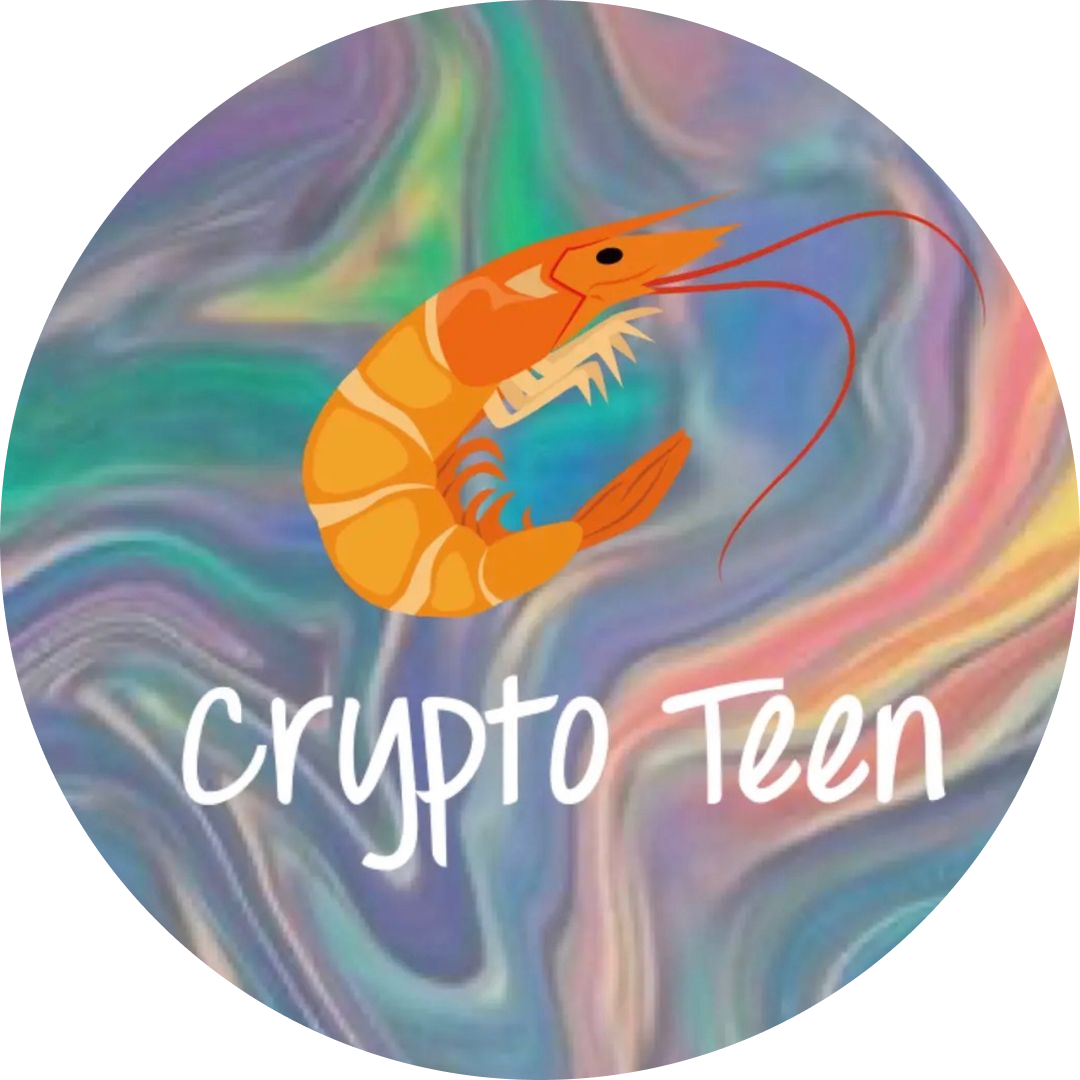
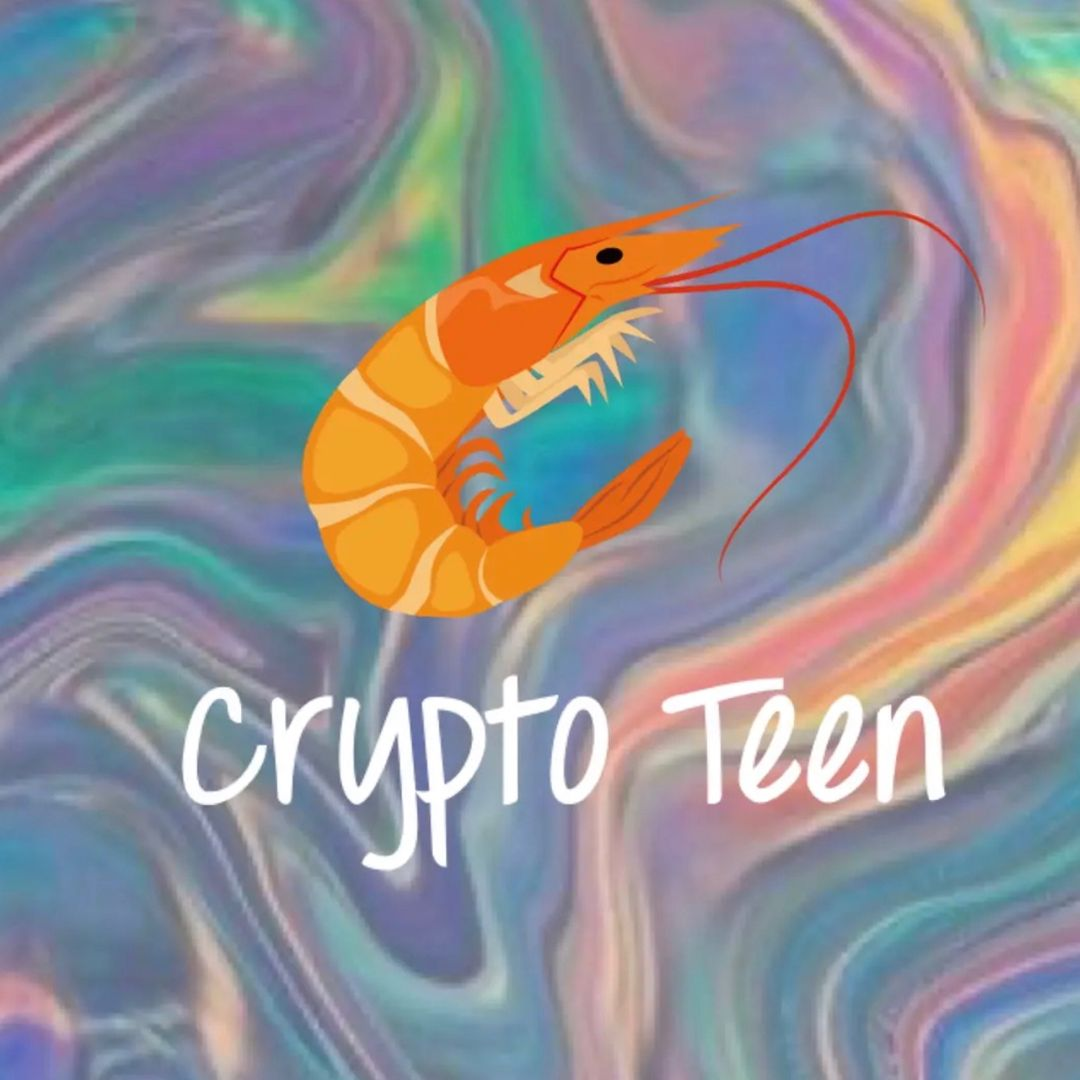
feat: sqaure off images

diff --git a/src/app/home/TimelineContent/TimelineContent.module.css b/src/app/home/TimelineContent/TimelineContent.module.css
@@ -205,10 +205,16 @@
   justify-content: flex-end;
 }
 
+/* Milestone icon - styled like project logos */
 .milestoneIcon {
-  width: 3rem;
-  height: 3rem;
-  object-fit: contain;
+  position: relative;
+  width: 48px;
+  height: 48px;
+  min-width: 48px;
+  border-radius: 10px;
+  overflow: hidden;
+  background: var(--surface-elevated);
+  object-fit: cover;
 }
 
 .yearTitle {
@@ -230,7 +236,6 @@
   font-size: 1.125rem;
   line-height: 1.75;
   margin-bottom: 1rem;
-  /* REMOVED: max-height and overflow to show all text */
 }
 
 .photos {
@@ -248,13 +253,13 @@
   justify-content: flex-end;
 }
 
+/* Photo box - styled like project images */
 .photoBox {
   position: relative;
   width: 128px;
   height: 128px;
-  border-radius: 0.5rem;
+  border-radius: 8px;
   background: var(--surface);
-  border: 2px solid var(--border-subtle);
   display: flex;
   align-items: center;
   justify-content: center;
@@ -351,6 +356,12 @@
   .photoBox {
     width: 100px;
     height: 100px;
+  }
+
+  .milestoneIcon {
+    width: 44px;
+    height: 44px;
+    min-width: 44px;
   }
 }
 
@@ -462,8 +473,10 @@
   }
 
   .milestoneIcon {
-    width: 2rem;
-    height: 2rem;
+    width: 40px;
+    height: 40px;
+    min-width: 40px;
+    border-radius: 8px;
   }
 
   .photos {
@@ -533,13 +546,15 @@
   }
 
   .milestoneIcon {
-    width: 1.75rem;
-    height: 1.75rem;
+    width: 36px;
+    height: 36px;
+    min-width: 36px;
   }
 
   .photoBox {
     width: 80px;
     height: 80px;
+    border-radius: 6px;
   }
 
   .linkIndicator {
@@ -557,5 +572,20 @@
 
   .photos {
     gap: 0.375rem;
+  }
+}
+
+/* Extra small mobile */
+@media (max-width: 360px) {
+  .milestoneIcon {
+    width: 32px;
+    height: 32px;
+    min-width: 32px;
+    border-radius: 6px;
+  }
+
+  .photoBox {
+    width: 70px;
+    height: 70px;
   }
 }

diff --git a/src/app/home/timelineData.ts b/src/app/home/timelineData.ts
@@ -95,7 +95,7 @@ export const timelineData: TimelineYear[] = [
     year: 2022,
     titleKey: "timeline2022Title",
     descriptionKey: "timeline2022Description",
-    milestone: "/images/lorimerjenkins/2022/milestone.svg",
+    milestone: "/images/lorimerjenkins/2022/milestone.jpeg",
     photos: [
       { src: "/images/lorimerjenkins/2022/1.png" },
       {
